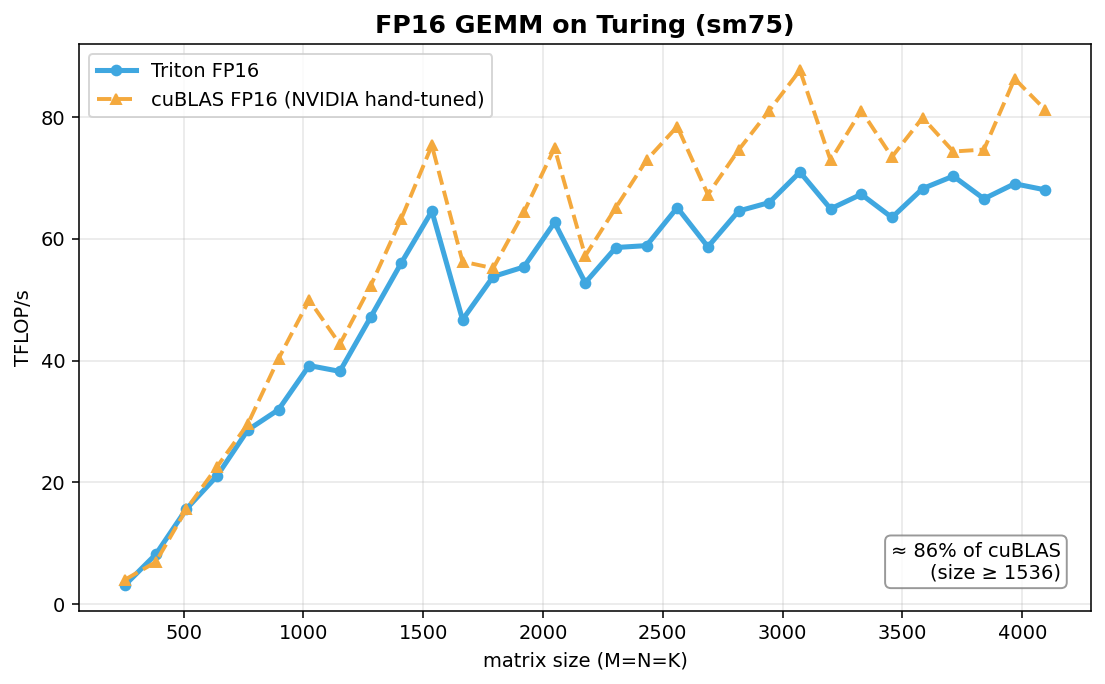
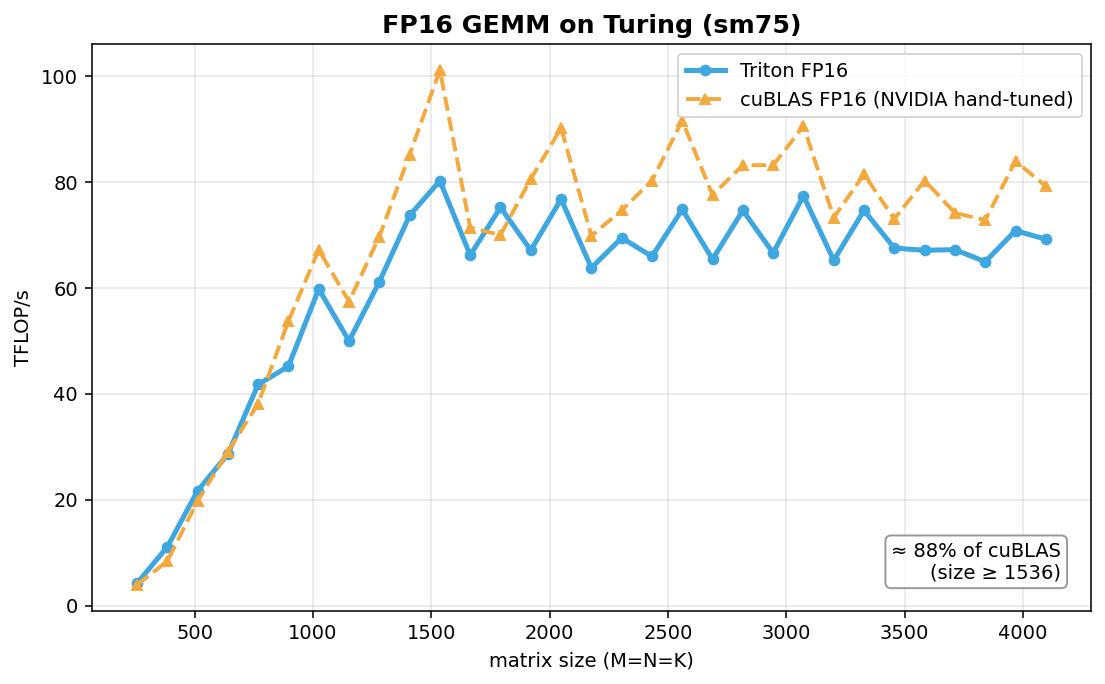
perf(tutorial): add 128x256x32 s3 w8 to the Turing autotune list
With one barrier per k-tile and the split dot, the tile cuBLAS itself
uses becomes the fastest dense-GEMM config we have from 2048^3 up - it
was 1.7x slower than cuBLAS before those two changes and now reaches
85% of it, beating the shipped 128x128 s1 by 3.5% at 3072^3. Add it to
get_turing_autotune_config and rewrite the comment above the large
tiles: which of s1 and s3 wins moves with the problem size, and a
single slot (num_stages=2) still pays two barriers per k-tile.

Rewrite the pipeline section of the README around the double-buffer
schedule that is now generated, and refresh the fp16 GEMM figure from
benchmarks/gemm/21 (three passes, the figure shows the middle one).
The headline ratio goes from 84-86% to 87-89% of cuBLAS.

diff --git a/python/tutorials/03-matrix-multiplication.py b/python/tutorials/03-matrix-multiplication.py
@@ -222,16 +222,20 @@ def get_turing_autotune_config():
     # and stages shallow instead, and includes deep-K single-stage points
     # (the cudaTensorCoreGemm design: amortize barriers over a deep chunk).
     sizes = [
-        # large tiles. On large square GEMM the sync-copy pipeline is a net
-        # loss: the kernel is compute-bound (Tensor Core ~71% even at s1) and
-        # load latency is already hidden by ptxas register-level scheduling, so
-        # the single-buffer num_stages=1 point below wins (~+5% vs s3). The
-        # s2/s3 variants stay for smaller/latency-exposed shapes.
+        # large tiles. num_stages=1 (no pipeline) and num_stages=3 (two
+        # shared-memory slots, one bar.sync per k-tile, ldmatrix interleaved
+        # with mma by the prefetch pass) trade places with problem size on the
+        # 128x128 tile: s1 wins at 2048, s3 at 4096. num_stages=2 has a single
+        # slot, so it keeps two barriers per k-tile and never wins on large
+        # tiles; it stays for latency-exposed shapes. The 128x256 s3 w8 point
+        # (cuBLAS's own tile shape) is the fastest large-square config from
+        # 2048 up (benchmarks/gemm/20).
         {'BLOCK_SIZE_M': 128, 'BLOCK_SIZE_N': 128, 'BLOCK_SIZE_K': 32, 'num_stages': 1, 'num_warps': 4},
         {'BLOCK_SIZE_M': 128, 'BLOCK_SIZE_N': 128, 'BLOCK_SIZE_K': 32, 'num_stages': 2, 'num_warps': 4},
         {'BLOCK_SIZE_M': 128, 'BLOCK_SIZE_N': 128, 'BLOCK_SIZE_K': 32, 'num_stages': 3, 'num_warps': 4},
         {'BLOCK_SIZE_M': 128, 'BLOCK_SIZE_N': 128, 'BLOCK_SIZE_K': 32, 'num_stages': 2, 'num_warps': 8},
         {'BLOCK_SIZE_M': 128, 'BLOCK_SIZE_N': 256, 'BLOCK_SIZE_K': 32, 'num_stages': 2, 'num_warps': 8},
+        {'BLOCK_SIZE_M': 128, 'BLOCK_SIZE_N': 256, 'BLOCK_SIZE_K': 32, 'num_stages': 3, 'num_warps': 8},
         {'BLOCK_SIZE_M': 256, 'BLOCK_SIZE_N': 128, 'BLOCK_SIZE_K': 32, 'num_stages': 2, 'num_warps': 8},
         # deeper K, fewer stages
         {'BLOCK_SIZE_M': 128, 'BLOCK_SIZE_N': 128, 'BLOCK_SIZE_K': 64, 'num_stages': 1, 'num_warps': 4},

diff --git a/README.md b/README.md
@@ -75,8 +75,9 @@ the path "Not implemented"). Triton INT8 also clears cuBLAS INT8 by ~1.8×.
 
 ![FP16 GEMM](.github/assets/benchmarks/fp16-gemm.png)
 
-For plain FP16 GEMM the Triton kernel reaches **≈ 84–86 % of cuBLAS** — NVIDIA's
-hand-tuned vendor library — across the mid-to-large size range.
+For plain FP16 GEMM the Triton kernel reaches **≈ 87–89 % of cuBLAS** — NVIDIA's
+hand-tuned vendor library — across the mid-to-large size range (three passes,
+`benchmarks/gemm/21`; the figure shows the middle one).
 
 Grouped (MoE) GEMM runs **+5–10 %** faster than the upstream configuration,
 almost all of it from using two pipeline stages instead of three: the third
@@ -112,25 +113,22 @@ own outputs before enabling it.
 
 The sm75 software pipeline (the first ever implemented for Turing) helps
 **latency-exposed** kernels — FlashAttention (**+48 % fwd / +11 % bwd on head_dim=128**,
-**+11 % fwd on head_dim=64**) and grouped/MoE GEMM (**+20 %**) — but not dense
-GEMM. That is not because its Tensor Cores are saturated: at `num_stages=1`
-dense GEMM is itself latency-exposed, stalling on memory far more than cuBLAS
-does. Pipelining does relieve that — it just costs more than it saves (below).
-Kernels with no reduction loop to pipeline (layernorm, softmax, elementwise) are
-not applicable.
+**+11 % fwd on head_dim=64**) and grouped/MoE GEMM (**+20 %**). Kernels with no
+reduction loop to pipeline (layernorm, softmax, elementwise) are not applicable.
 
 Pipeline depth (`num_stages`) is configurable — not limited to double-buffering —
 and autotuned per kernel and size. Turing's small 64 KB/CTA shared memory caps the
-useful depth: for the kernels that benefit from pipelining, **`num_stages=2` is the
-sweet spot**, because a third stage usually exceeds the budget (it OOMs for
-FlashAttention). Dense GEMM is the exception — fastest with no pipelining
-(`num_stages=1`), a third stage edging ~1 % ahead only at the largest 4096³ size.
-The cause is the register file, not saturation: a 128×128 tile over 4 warps
-spends 128 of Turing's 255 registers per thread on the f32 accumulator alone, so
-enabling the pipeline pushes it past the ceiling and the global-load pointers
-spill — reloaded seven times per iteration.
+useful depth. With two or more shared-memory slots (`num_stages` ≥ 3) the loop runs
+the classic double-buffer schedule: **one `bar.sync` per K-tile**, placed just before
+the refill of the slot the next-but-one iteration reads, and the K-loop `tl.dot` is
+split so `ldmatrix` for the next slice interleaves with the current `mma` instead of
+bursting at the loop head. That schedule took a cuBLAS-shaped 128×256 GEMM tile from
+1.7× slower than cuBLAS to **85 % of it**, and made it the fastest dense-GEMM config
+from 2048³ up; a single slot (`num_stages=2`) still needs two barriers per K-tile
+and remains the sweet spot where the third stage does not fit (FlashAttention
+forward on head_dim=128).
 
-Because that cap is applied silently, the depth you ask for is often not the
+Because the 64 KB cap is applied silently, the depth you ask for is often not the
 depth you get. On a 128×128×64 tile, `num_stages` 3 and 4 compile to the same
 kernel — 4 asks for 3 slots at 98304 B, over the 64 KB limit, and gets clamped
 back to 2 — so any difference you measure between them is noise. Two ways to
